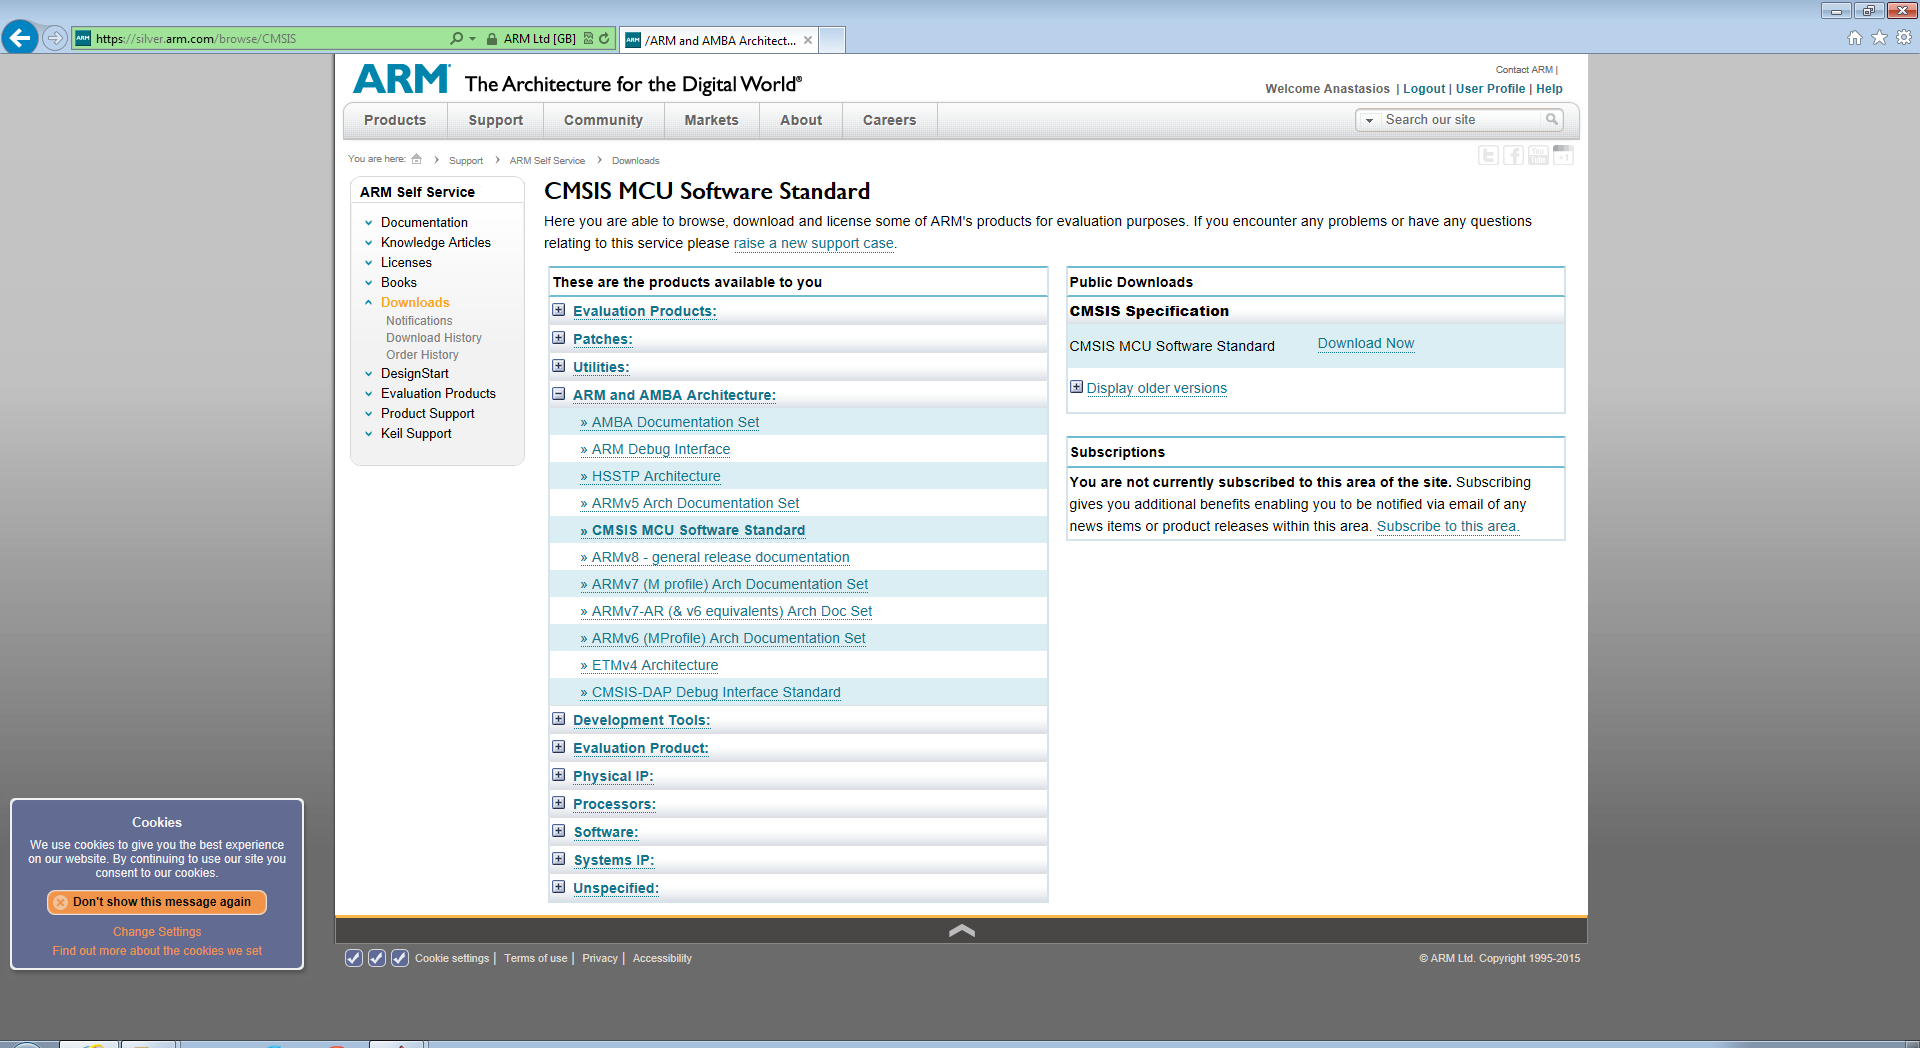
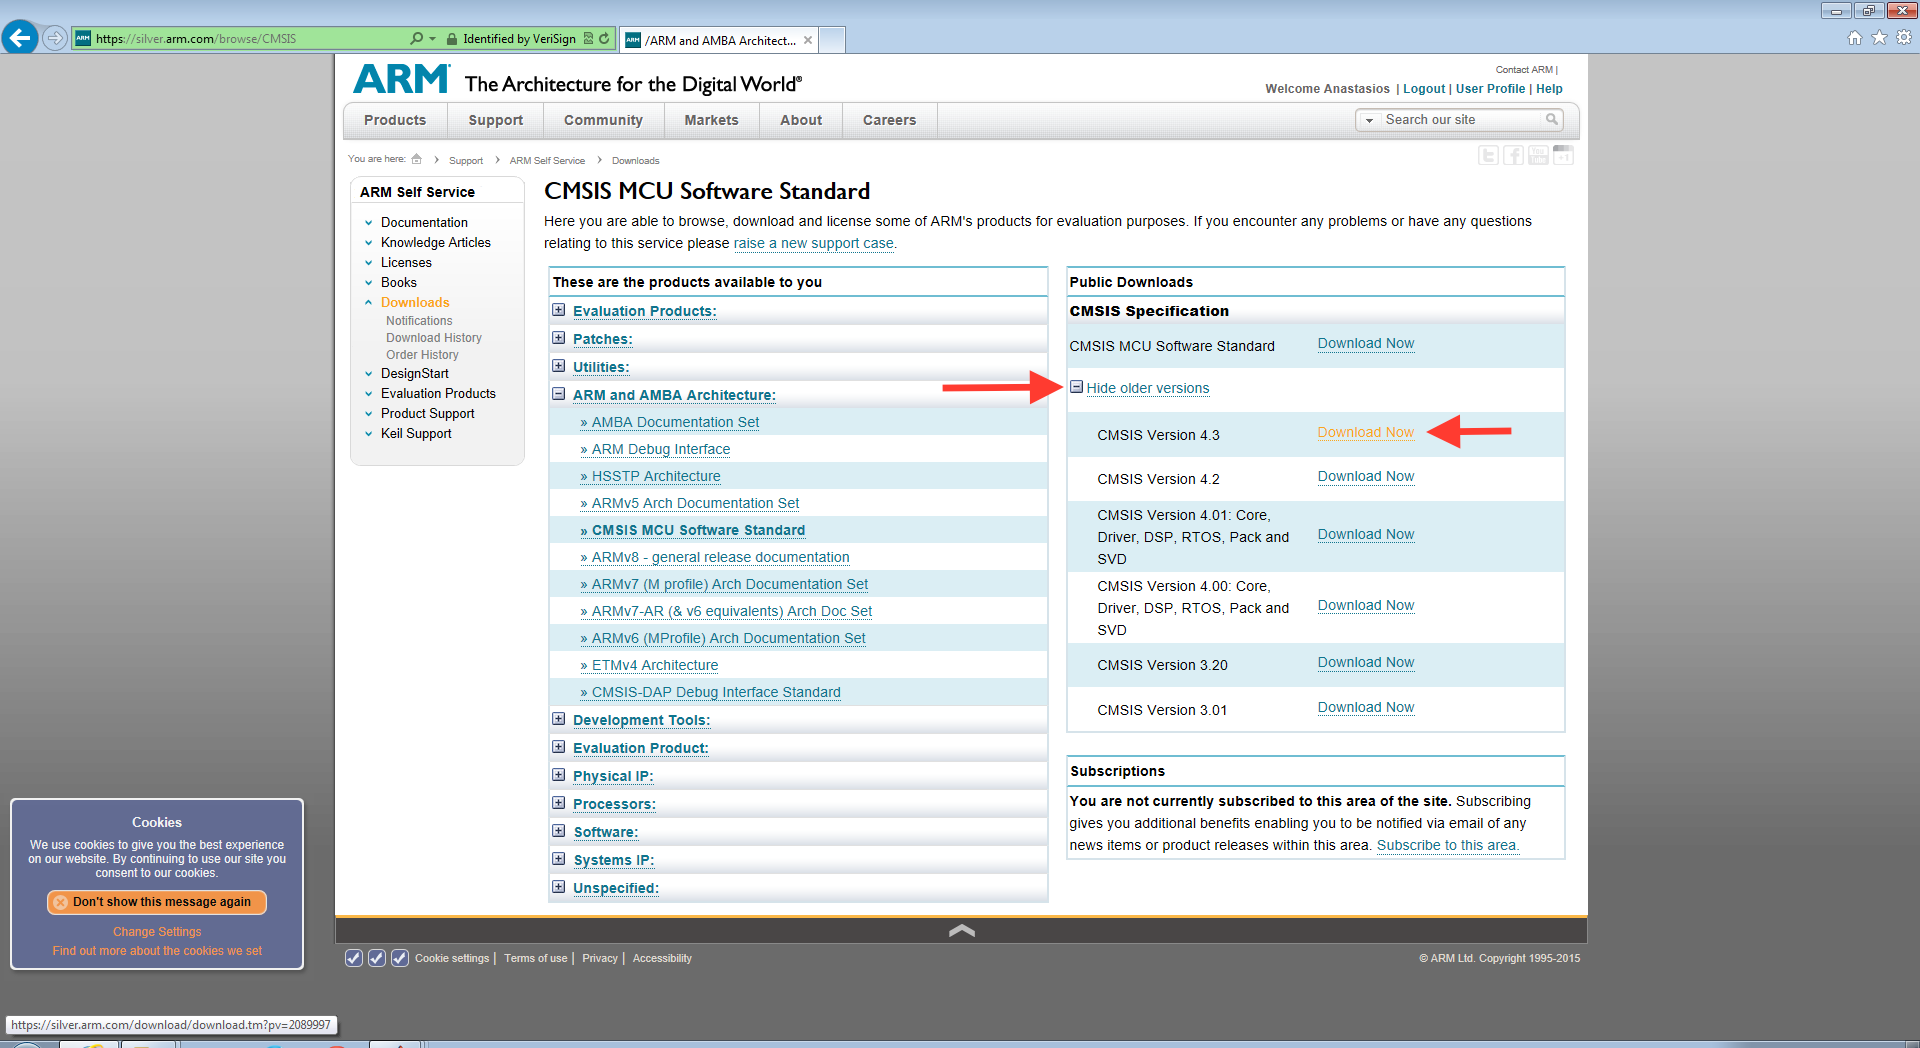
fixes on matlab package installation

diff --git a/source/instalation.rst b/source/instalation.rst
@@ -98,6 +98,8 @@ Install Matlab package for Freescale FRDM-KL25Z board
 
 6. At some point you are going to be asked to install **CMSIS Specification** software. Click on **download**, then create an **ARM** account and download the software.
 
+**IMPORTANT:** Use the version **4.3.0!**
+
 .. figure:: Pictures/04-4_install_CMSIS.png
   :figclass: align-center
 
@@ -108,8 +110,8 @@ Install Matlab package for Freescale FRDM-KL25Z board
 
   Figure 5
 
-7. Then use an extract software (*like 7-zip*) to uncompress the **.tgz**. The process goes like this: **.tgz** -> **.tar** -> **.pack** -> then you will have 2 folders and 1 **.pdsc** file.
-8. Click **Next** on the **CMSIS Specification** window and then you will be asked to **Specify the CMSIS installation folder**. Browse the folder that **contains** the **.pdsc** file.
+7. Extract the software.
+8. Click **Next** on the **CMSIS Specification** window and then you will be asked to **Specify the CMSIS installation folder**. Browse to the just extracted folder.
 9. For the remaining pages of the **Support Package Installer** wizard, just follow the instructions.
 
 If you find any issues you can always refer to the official documentation `here <http://uk.mathworks.com/help/supportpkg/freedomboard/ug/install-support-for-freescale-frdm-kl25z-board.html>`__.
